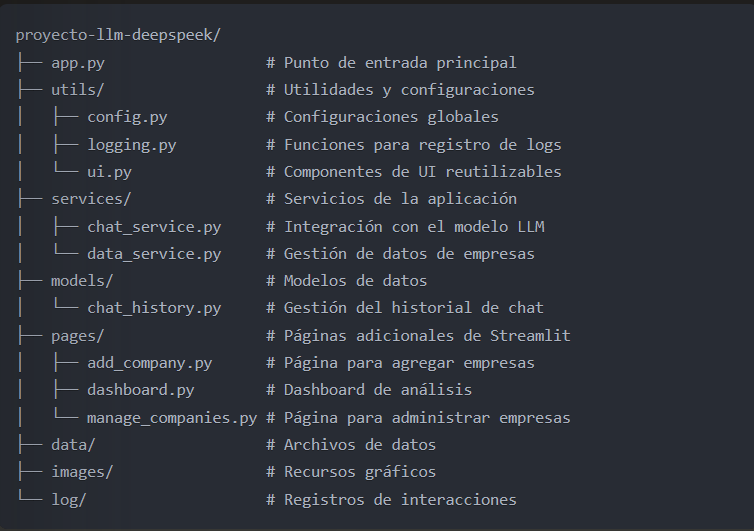
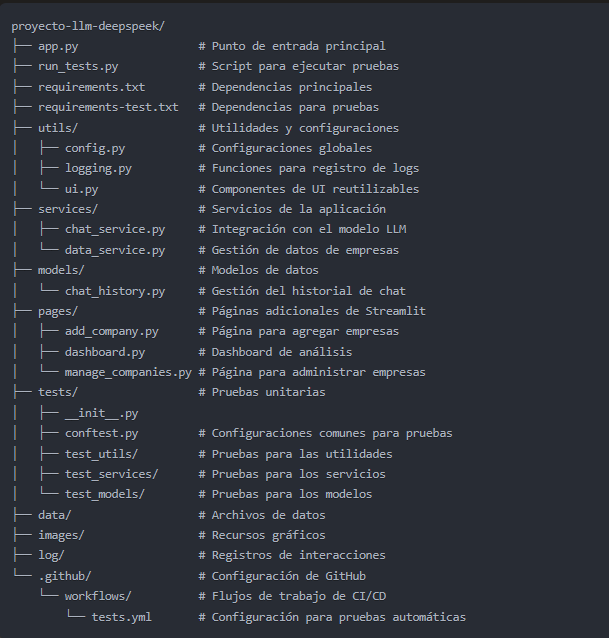
update

Changed region(s): [[0.0, 0.0301, 0.78, 0.9944]]

diff --git a/README.md b/README.md
@@ -86,6 +86,9 @@ La aplicación sigue una arquitectura modular que facilita el mantenimiento y la
 - **Services** - Maneja la comunicación con el LLM y la gestión de datos empresariales.
 - **Models** - Define estructuras para el historial de chat y otros datos.
 - **Pages** - Páginas adicionales para gestión de empresas y análisis de datos.
+- **Tests** - Pruebas unitarias que verifican el correcto funcionamiento de cada componente.
+- **GitHub Actions** - Integración continua para ejecutar pruebas automáticamente al realizar cambios.
+
 ---
 
 ## 🔧 Instalación y Configuración
@@ -153,7 +156,7 @@ Para ejecutar las pruebas, sigue estos pasos:
 
 1. **Instala las dependencias de prueba**:
    ```sh
-   pip install -r requirements-test.txt
+   pip install -r requirements.txt
    ```
 
 2. **Ejecuta las pruebas con cobertura**:
